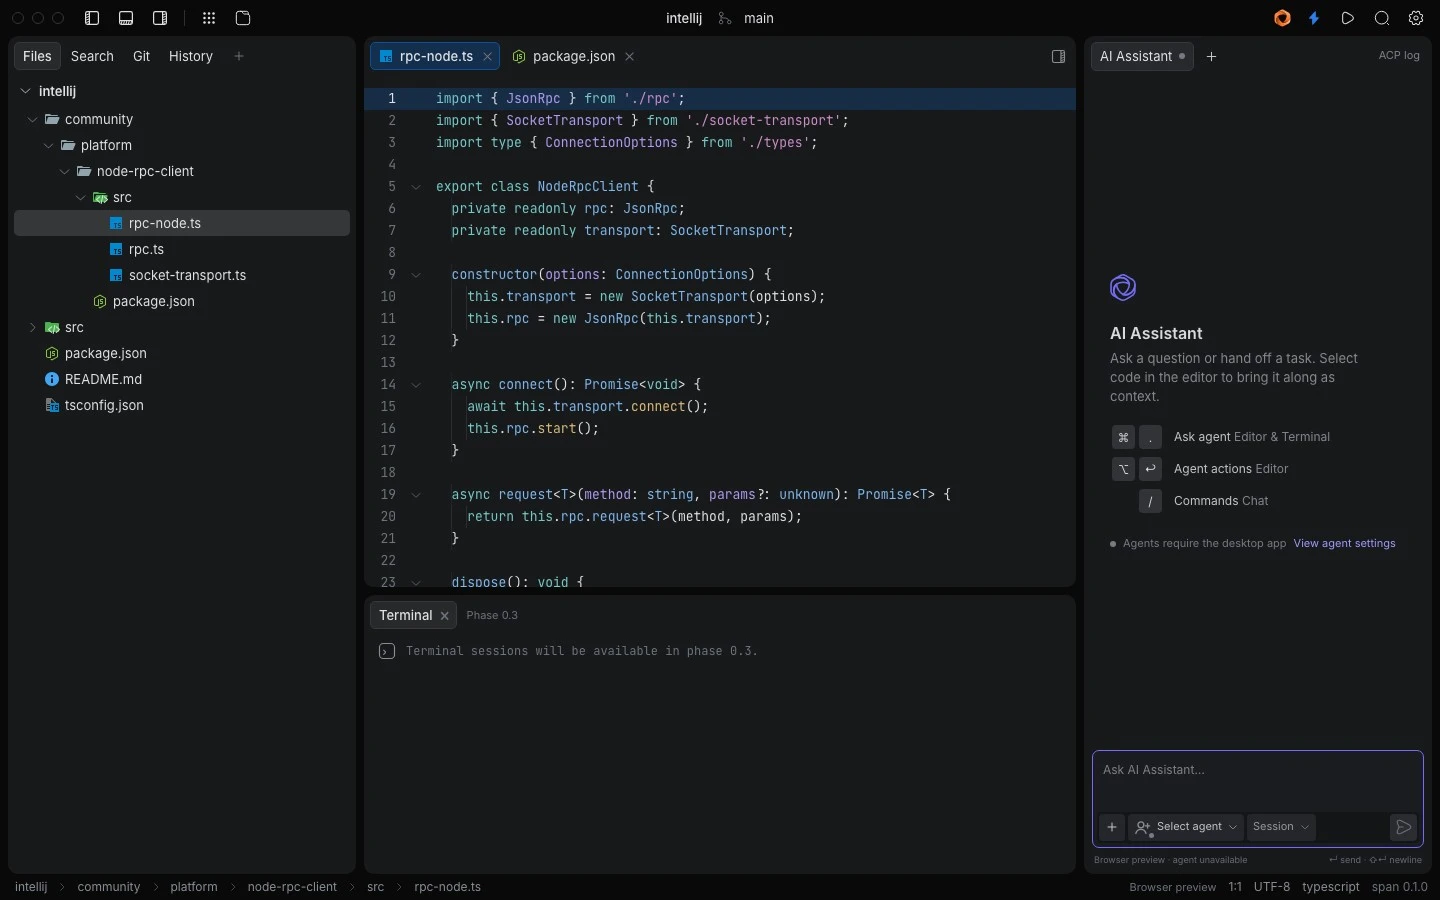
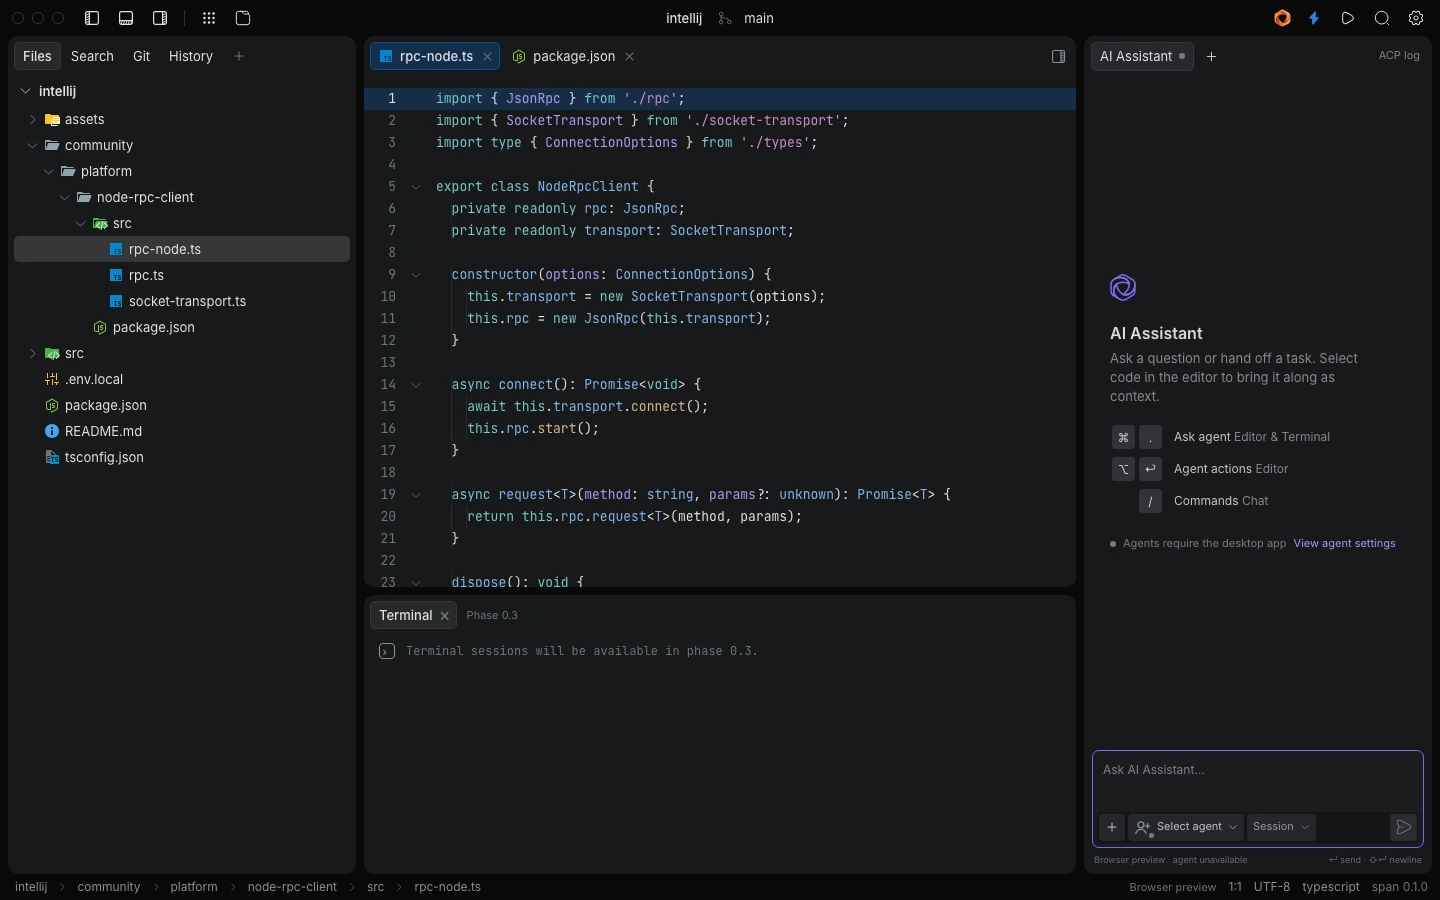
fix(web): refresh editor preview and mobile downloads
Refs #11

Changed region(s): [[0.0, 0.1244, 0.25, 0.5289]]

diff --git a/apps/web/style.css b/apps/web/style.css
@@ -6,3 +6,5 @@
 @media(prefers-reduced-motion:reduce){html{scroll-behavior:auto}*,*:before,*:after{animation:none!important;transition:none!important}}
 
 .published-releases:empty{display:none}.published-release{padding:25px;border:1px solid #49434f;border-radius:10px;background:#232127;margin-bottom:25px}.published-release h3{font-size:20px}.published-release p{font-size:13px;color:var(--secondary);line-height:1.8;margin-top:10px;white-space:pre-line;max-width:850px}.published-release .actions{margin-top:18px}.published-release .status{margin-bottom:12px}.published-release .text-link{margin-top:15px}
+
+.published-release .button{max-width:100%;overflow-wrap:anywhere;white-space:normal;text-align:left}

diff --git a/apps/web/README.md b/apps/web/README.md
@@ -2,7 +2,7 @@
 
 A dependency-free static marketing site based on the supplied span design reference. Serve this directory directly, for example with `python3 -m http.server 1430 --bind 127.0.0.1 --directory apps/web` from the repository root.
 
-Vercel uses this directory as its project root, with no install or build step. The GitHub repository is `1kentom/span`. Website content describes the phase 0.1 foundation and links to source instructions and GitHub Releases. A progressive public GitHub API request displays actual published release notes and attached distribution files when available. Missing releases, API failures, and rate limits preserve the source-build baseline. It does not invent download links or release counts. No database, signup, or analytics backend is required.
+Production is hosted at https://span.kentom.co.ke. The Vercel `span` project is connected to the `main` branch of `1kentom/span`, with `apps/web` as its project root and no install or build step. Website content describes the phase 0.1 foundation and links to source instructions and GitHub Releases. A progressive public GitHub API request displays actual published release notes and attached distribution files when available. Missing releases, API failures, and rate limits preserve the source-build baseline. It does not invent download links or release counts. No database, signup, or analytics backend is required.
 
 Browser QA covers desktop and mobile layout, navigation, FAQ disclosure, local asset loading, heading structure, image alternatives, and source/release link destinations. This is separate from native editor verification.
 
